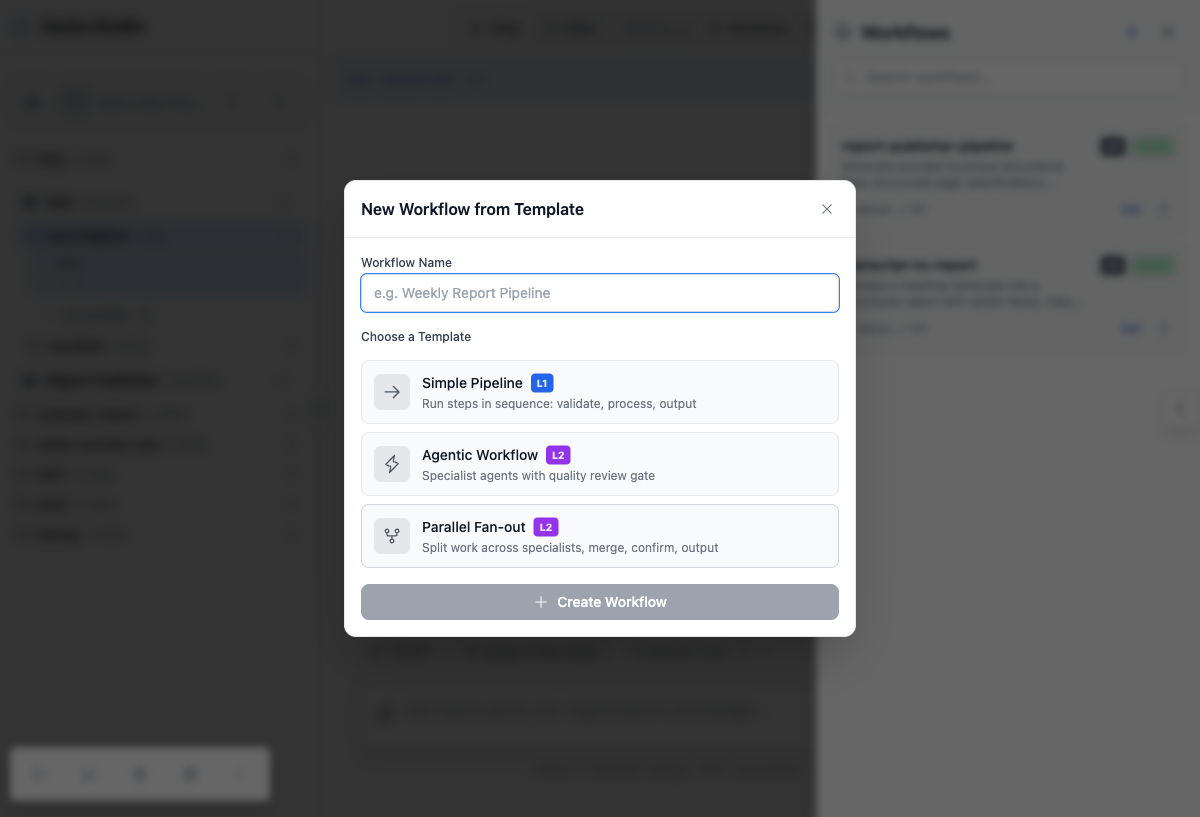
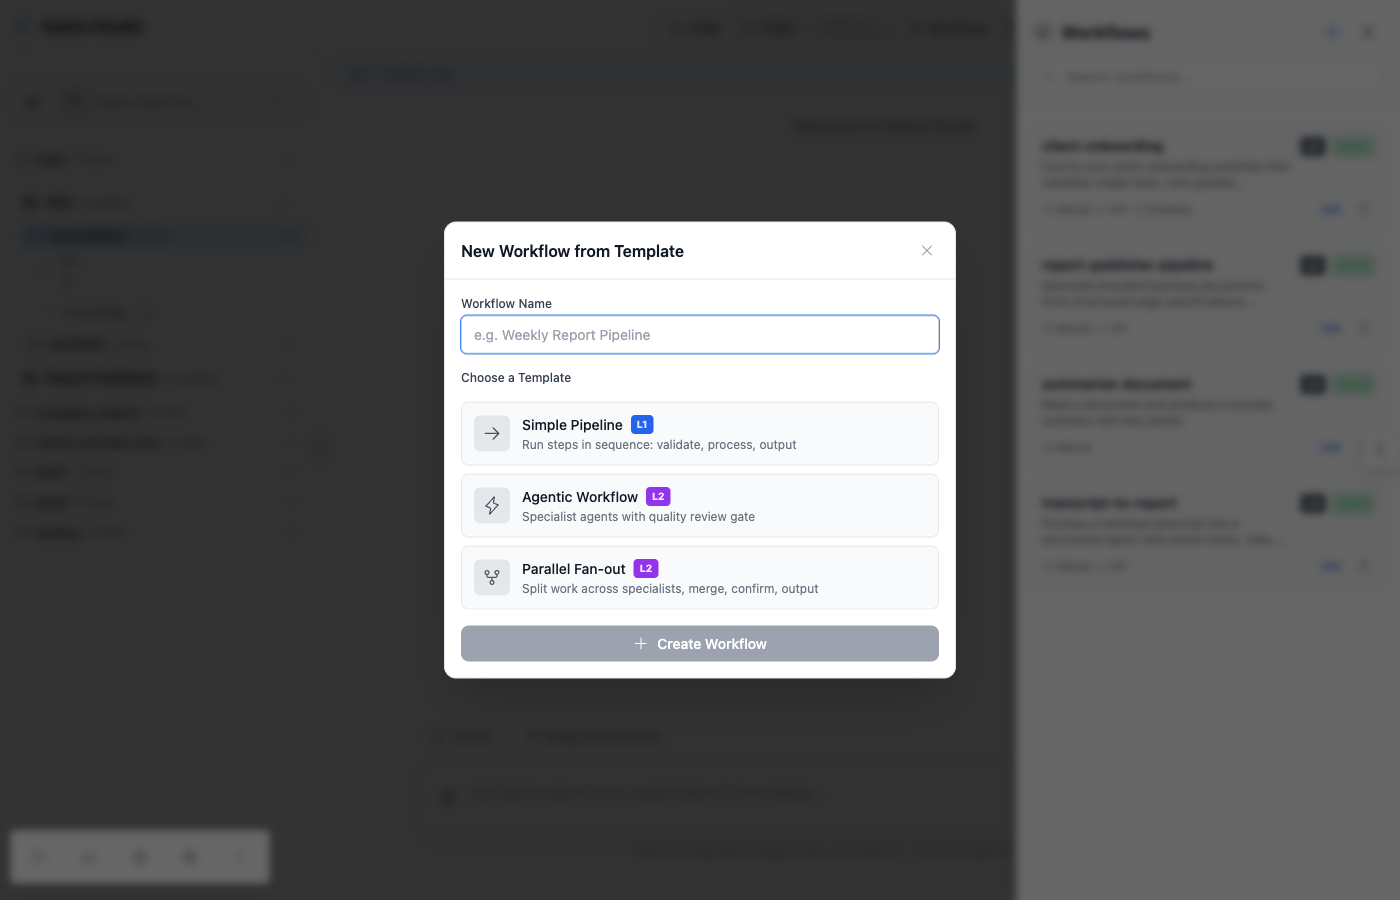
docs: expand README with comprehensive editor screenshots
Add 13 new screenshots covering step inspector, artifact inspector,
audit inspector, dependencies view, chat bar, and individual node types.
Update 4 existing screenshots with current UI. Remove 2 obsolete images.
Expand README with Node Types table, inspector sections, and split view.

diff --git a/README.md b/README.md
@@ -123,13 +123,13 @@ See the [examples/](examples/) directory for complete implementations of each pa
 
 ## Agent Flow in Practice
 
-Agent Flow isn't just a spec on paper — it has a working visual editor in [Sasha Studio](https://github.com/context-is-everything/sasha-ai-knowledge-management). The screenshots below show how the three recommended patterns come to life.
+Agent Flow isn't just a spec on paper — it has a working visual editor in [Sasha Studio](https://github.com/context-is-everything/sasha-ai-knowledge-management). The screenshots below show the `client-onboarding` example — a full Layer 3 workflow with 9 steps, 4 agents, parallel bundles, approval gates, output files, audit artifacts, and error handling.
 
 ### Managing Workflows
 
 The workflow manager lists all Agent Flow files with their metadata at a glance: layer badge, active/draft status, trigger types (Manual, API, Schedule), and one-click editing. Workflows are plain markdown files — what you see here maps directly to frontmatter fields in the spec.
 
-![Workflow Manager — three workflows showing layer badges, status, and trigger types](docs/screenshots/workflow-manager.png)
+![Workflow Manager — four workflows showing layer badges, status, and trigger types](docs/screenshots/workflow-manager.png)
 
 ### Creating from Templates
 
@@ -143,15 +143,63 @@ New workflows start from one of three templates matching the recommended pattern
 
 ### Visual Workflow Editor — Canvas View
 
-The canvas renders each `step` block as a node in a directed graph. Nodes are color-coded by step type:
+The canvas renders each `step` block as a node in a directed graph. The full `client-onboarding` workflow is shown here — 9 steps from intake validation through to final onboarding summary.
 
-- **Blue** — `transform` steps (validate, filter, format)
-- **Green** — `tool` steps (external integrations, file I/O)
-- **Teal** — `parallel` steps (fan-out to worker bundles)
+![Visual workflow editor — full client-onboarding workflow with 9 steps, artifacts, and error handlers](docs/screenshots/workflow-editor-canvas.png)
 
-Edges show the execution flow. Conditional edges (like `on_error: fallback`) are labelled so you can see branching logic at a glance. This is the `report-publisher-pipeline` example — a 9-step Layer 2 workflow with conditional fallback paths.
+#### Node Types
 
-![Visual workflow editor — 9-step pipeline with color-coded nodes and conditional edges](docs/screenshots/workflow-editor-canvas.png)
+Every spec concept has a visual representation on the canvas:
+
+| Node | Represents | Spec field |
+|------|-----------|------------|
+| ![Trigger](docs/screenshots/node-trigger.png) | How the workflow starts | `triggers:` frontmatter |
+| ![Bundle step](docs/screenshots/node-bundle.png) | Parallel subagent execution | `type: subagent_bundle` |
+| ![Gate step](docs/screenshots/node-gate.png) | Approval checkpoint with conditions | `type: gate` + `when:` |
+| ![Skill step](docs/screenshots/node-skill.png) | AI specialist delegation | `type: skill` |
+| ![Artifact](docs/screenshots/node-artifact.png) | Output file produced by a step | `output_files:` |
+| ![Audit artifact](docs/screenshots/node-audit.png) | JSON audit trail | `audit_output:` |
+| ![Error handler](docs/screenshots/node-error.png) | Error handling path | `on_error:` |
+
+Nodes are color-coded by step type: blue for `transform`, green for `tool`, teal for `subagent_bundle`, coral for `gate`, indigo for `skill`, and dark gray for `end`. Artifact nodes branch off to the right of their source step, and error handlers branch to the left with dashed red connectors.
+
+### Step Inspector
+
+Click any step node to open the property inspector. Every field from the spec's step definition is editable: type, description, reads/writes, output files, audit output, error handling, run conditions, agent assignment, expected output, and reason codes.
+
+![Step inspector — editing generate_welcome_pack with all spec fields visible](docs/screenshots/step-inspector.png)
+
+<details>
+<summary>Inspector panel detail</summary>
+
+![Step inspector panel — Skill step with inputs, outputs, files, rules, AI behaviour, and tracking](docs/screenshots/step-inspector-panel.png)
+
+The inspector is organized into sections that mirror the spec structure:
+- **Basics** — Step name, type, description
+- **Inputs & Outputs** — `reads`, `writes`, `output_files`, `audit_output`
+- **Rules** — `when` condition, `on_error` handling, `fallback`, `retry`, `stop_condition`
+- **AI Behaviour** — `expected_output`, `agent`, `gate_method`, `tool`, `bundle`
+- **Tracking** — `reason_code`, `reason_code_on_fail`
+
+</details>
+
+### Artifact Inspector
+
+Click an artifact or audit node to inspect it. The artifact inspector shows the filename, source step, step type, and lists all output files from that step — with the selected file highlighted.
+
+![Artifact inspector — welcome-letter.pdf showing source step and sibling output files](docs/screenshots/artifact-inspector.png)
+
+### Audit Artifact Inspector
+
+Audit artifacts represent the `audit_output` field from the spec. Clicking one shows the JSON filename, the source step, and the step description.
+
+![Audit inspector — audit-background-research.json from the subagent_bundle step](docs/screenshots/audit-inspector.png)
+
+### Dependencies View
+
+Toggle the Dependencies button to overlay implicit data-flow edges derived from `reads`/`writes` declarations. These dashed lines show which steps depend on data produced by earlier steps — even when they aren't adjacent in the execution order. Fallback edges are shown as red dashed lines.
+
+![Dependencies view — implicit data-flow edges showing state.validated_intake flowing to multiple downstream steps](docs/screenshots/workflow-dependencies.png)
 
 ### Split View — Canvas + Code Side by Side
 
@@ -161,11 +209,11 @@ This is the view a product manager uses to understand what the workflow does (ca
 
 ![Split view — visual graph on the left, YAML/markdown definition on the right](docs/screenshots/workflow-editor-split.png)
 
-### Code View — The Spec as Written
+### Workflow Chat
 
-The code view shows the full Agent Flow file: YAML frontmatter (name, kind, version, description, triggers, budgets, tool permissions, input/output schemas) followed by markdown step definitions. This is the actual file on disk — no abstraction layer, no proprietary format.
+The floating chat bar at the bottom of the editor lets you modify workflows conversationally. Type natural language instructions (e.g. "add a retry to the send_notifications step") and the AI updates the workflow markdown, which immediately re-renders on the canvas.
 
-![Code view — full workflow definition with frontmatter, budgets, tools, and input schema](docs/screenshots/workflow-editor-code.png)
+![Workflow chat bar — contextual suggestions and natural language input](docs/screenshots/workflow-chat-bar.png)
 
 ## Standards We Build On
 
@@ -193,6 +241,8 @@ sasha-workflow/
 │   ├── report-publisher-pipeline.md # Deterministic: multi-format export
 │   ├── client-onboarding.md         # Full-featured: v0.2.0 showcase with all new fields
 │   └── simple-skill.md              # Layer 0: plain skill as workflow
+├── docs/
+│   └── screenshots/     # Visual editor screenshots from Sasha Studio
 └── README.md
 ```
 
